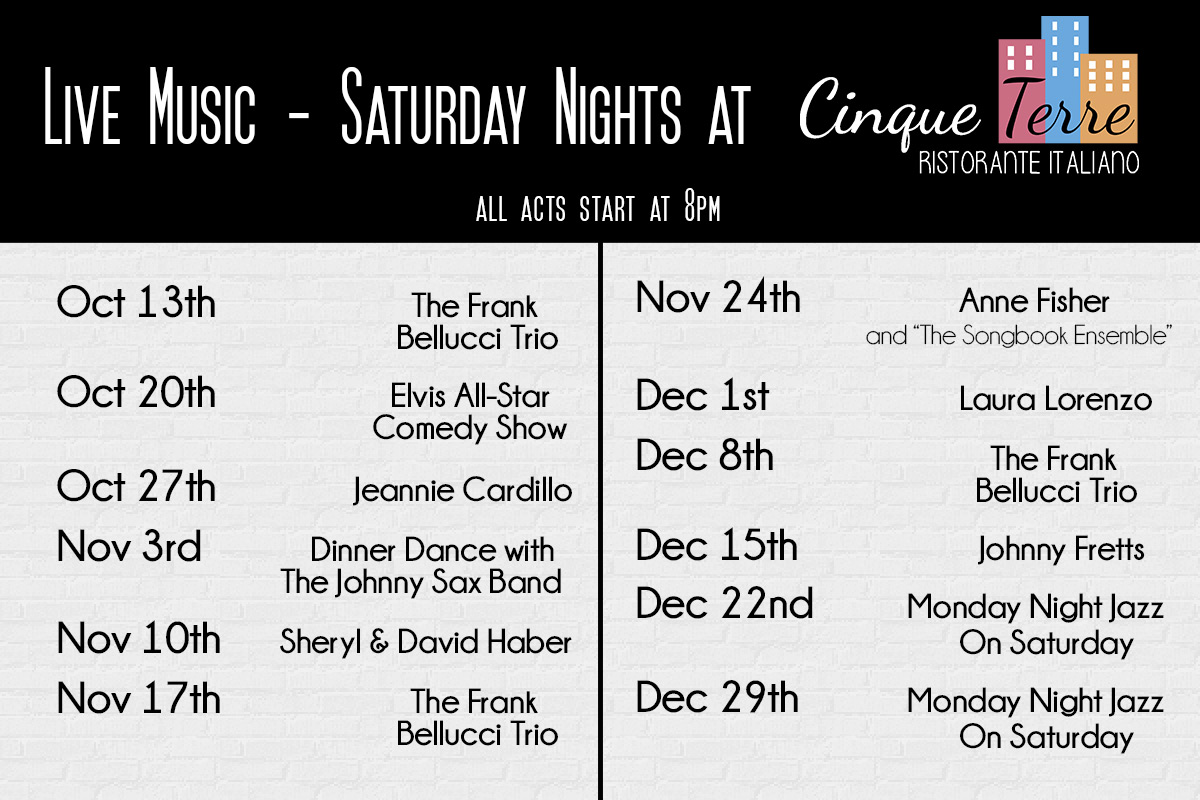
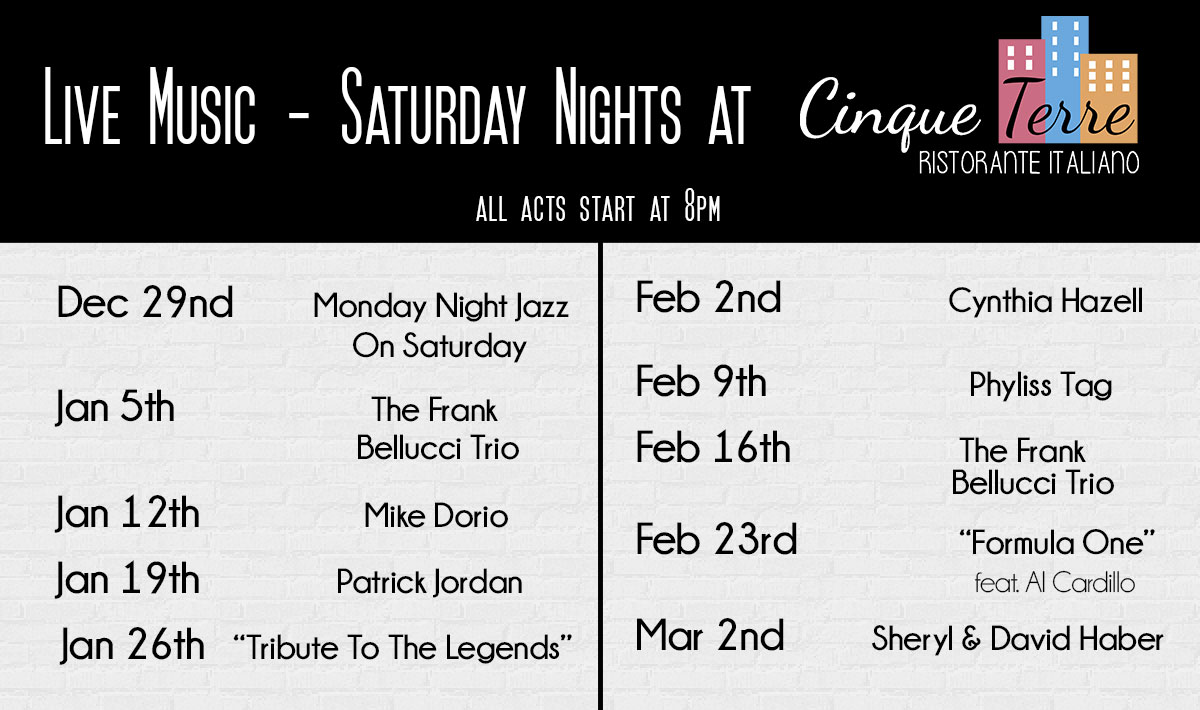
Weeeee

diff --git a/upcoming-events.html b/upcoming-events.html
@@ -11,20 +11,19 @@ permalink: "upcoming-events.html"
 
 
 <div class="middle">
-<img class="saturdayBanner" src="/images/saturdayNightSchedule.gif">
+<img class="saturdayBanner" src="/images/saturdayNightLiveMusicwithtime.jpg">
 </div>
 
 
 
 <div class="event-entry">
 	<div class="event-date">
-	THU NOV 22<br />
-	12PM
+	SAT JAN 22<br />
+	8PM
 	</div>
 	<div class="event">
 	<img class="event-flyer" src="/images/thanksgiving.jpg" id="legends">
 	</div>
-	<h3>View the menu <a href="/thanksgivingMenu.pdf" target="_blank">here</a>.</h3>
 	</div>
 </div>
 <!--
